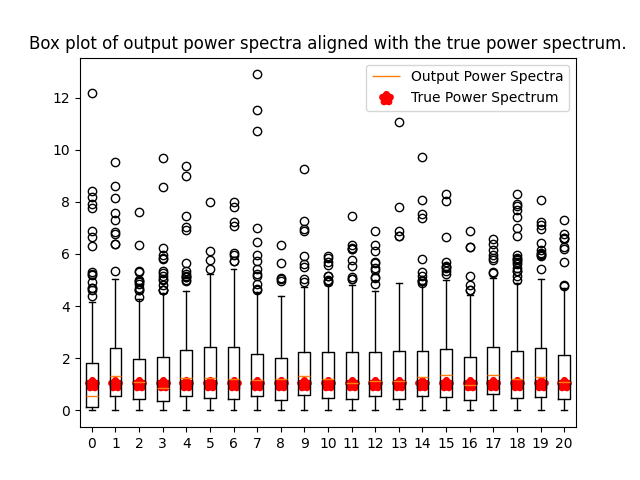
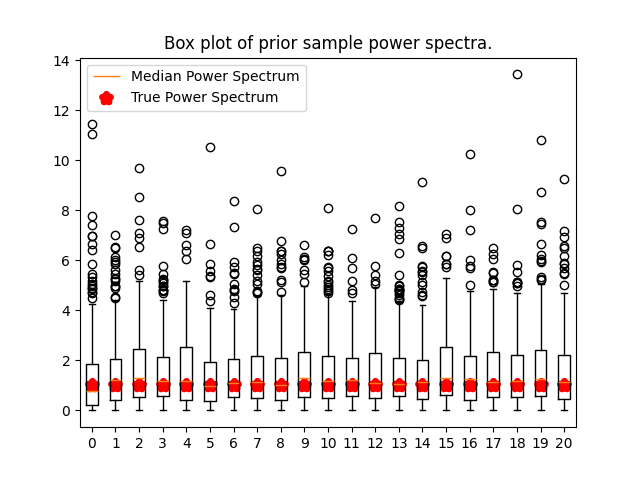
No changes.

diff --git a/src/test_scorematching.py b/src/test_scorematching.py
@@ -96,9 +96,9 @@ if __name__ == "__main__":
 
     ### Set parameters for conditioner
     conditioner_type = "power_spectrum" # "power_spectrum", "triple_correlation"
-    use_random_statistic = False
+    use_random_statistics = False
     use_CLT = True
-    use_none_cond = True
+    use_none_cond = False
 
     ### Set parameters for score model
     scoremodel_type = "gaussian" # "gaussian", "learned", "none"
@@ -142,7 +142,7 @@ if __name__ == "__main__":
         device=device,
     )
     MRA_samples = MRA_sampler(num=M, do_random_shifts=True)
-    if use_random_statistic:
+    if use_random_statistics:
         sample_power_spectrum = torch.abs(fft(MRA_samples, norm='ortho')).square().mean(dim=0)
         if length == 3:
             sample_triple_corr = compute_triple_corr(MRA_samples, average=True, device=device)
@@ -303,7 +303,7 @@ if __name__ == "__main__":
     if signal_true.shape[0] == 3:
         if plot_MRA_samples:
             figmra = plt.figure()
-            axmra = fig.add_subplot(projection='3d')
+            axmra = figmra.add_subplot(projection='3d')
             axmra.scatter(
                 [0.],
                 [0.],
@@ -491,13 +491,13 @@ if __name__ == "__main__":
                 plt.title(f"Projection of conditional 3D-scores")
                 fig2.tight_layout()
                 plt.savefig(f'./../figs/scorematching/{conditioner_type}/conditionalscores.png')
-    elif signal_true.shape[0] == 1:
+    if signal_true.shape[0] == 1:
         fig, ax = plt.subplots(1, 2, sharey=True, tight_layout=True)
         ax[0].hist(input)
         ax[1].hist(output)
         ax[0].plot(signal_true, 0*signal_true, 'd')
         ax[1].plot(signal_true, 0*signal_true, 'd')
-    elif signal_true.shape[0] > 3:
+    if signal_true.shape[0] >= 3:
         # stds = torch.std(signal_true.unsqueeze(0) - aligned_output, dim=0)
         # fig1, ax1 = plt.subplots()
         # ax1.bar(torch.arange(length), signal_true, yerr=stds)
@@ -505,7 +505,11 @@ if __name__ == "__main__":
         # plt.savefig(f'./../figs/scorematching/{conditioner_type}/bardiagram_{length=}.png')
 
         fig2, ax2 = plt.subplots()
-        ax2.boxplot(aligned_output, positions=range(length), label="Median Output Sample")
+        ax2.boxplot(
+            aligned_output, 
+            positions=range(length), 
+            label="Median Output Sample",
+        )
         ax2.scatter(
             range(length), 
             signal_true, 
@@ -516,9 +520,17 @@ if __name__ == "__main__":
         )
         ax2.legend()
         ax2.xaxis.set_ticklabels([])
-        plt.title("Box plot of output samples aligned with the true signal.")
-        plt.savefig(f'./../figs/scorematching/{conditioner_type}/boxplot_samples_{length=}.png')
-
+        if use_none_cond:
+            plt.title("Box plot of prior samples aligned with true signal.")
+            plt.savefig(f'./../figs/scorematching/{conditioner_type}/boxplot_samples_{length=}.png')
+        else:
+            if use_random_statistics:
+                plt.title("Box plot of posterior samples wrt population power spectrum aligned with true signal.")
+                plt.savefig(f'./../figs/scorematching/{conditioner_type}/boxplot_samples_{length=}_poppwrspec.png')
+            else:
+                plt.title("Box plot of posterior samples wrt true power spectrum aligned with true signal.")
+                plt.savefig(f'./../figs/scorematching/{conditioner_type}/boxplot_samples_{length=}_truepwrspec.png')
+        
         fig3, ax3 = plt.subplots()
         ax3.boxplot(
             output_power_spectra[:, :(length+1)//2], 
@@ -534,9 +546,16 @@ if __name__ == "__main__":
             label="True Power Spectrum",
         )
         ax3.legend()
-        plt.title("Box plot of output power spectra aligned with the true power spectrum.")
-        plt.savefig(f'./../figs/scorematching/{conditioner_type}/boxplot_pwrspec_{length=}.png')
-        
+        if use_none_cond:
+            plt.title("Box plot of prior sample power spectra.")
+            plt.savefig(f'./../figs/scorematching/{conditioner_type}/boxplot_pwrspec_{length=}.png')
+        else:
+            if use_random_statistics:
+                plt.title("Box plot of posterior sample power spectra wrt population power spectrum.")
+                plt.savefig(f'./../figs/scorematching/{conditioner_type}/boxplot_pwrspec_{length=}_poppwrspec.png')
+            else:
+                plt.title("Box plot of posterior sample power spectra wrt true power spectrum.")
+                plt.savefig(f'./../figs/scorematching/{conditioner_type}/boxplot_pwrspec_{length=}_truepwrspec.png')
 
     if show_plot:
         plt.show()
